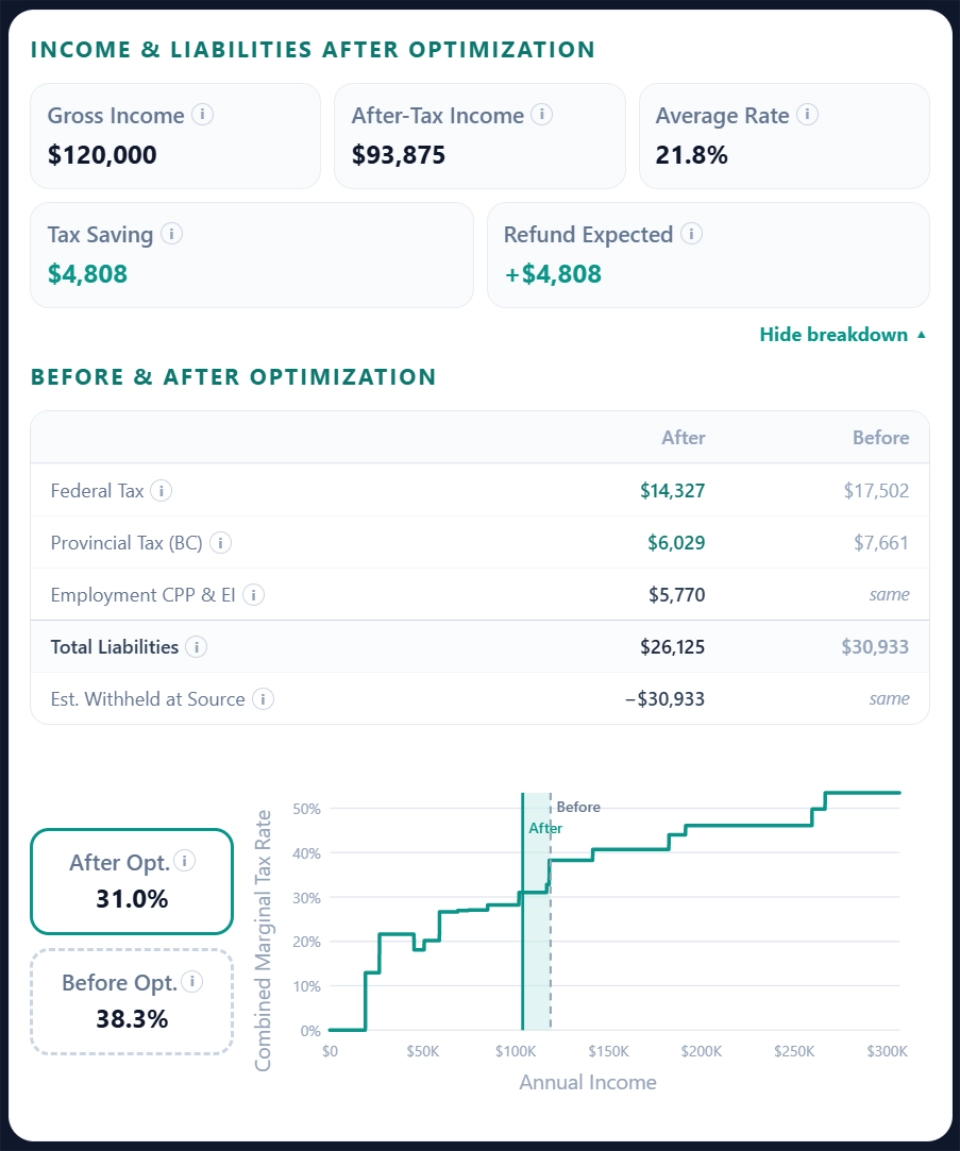
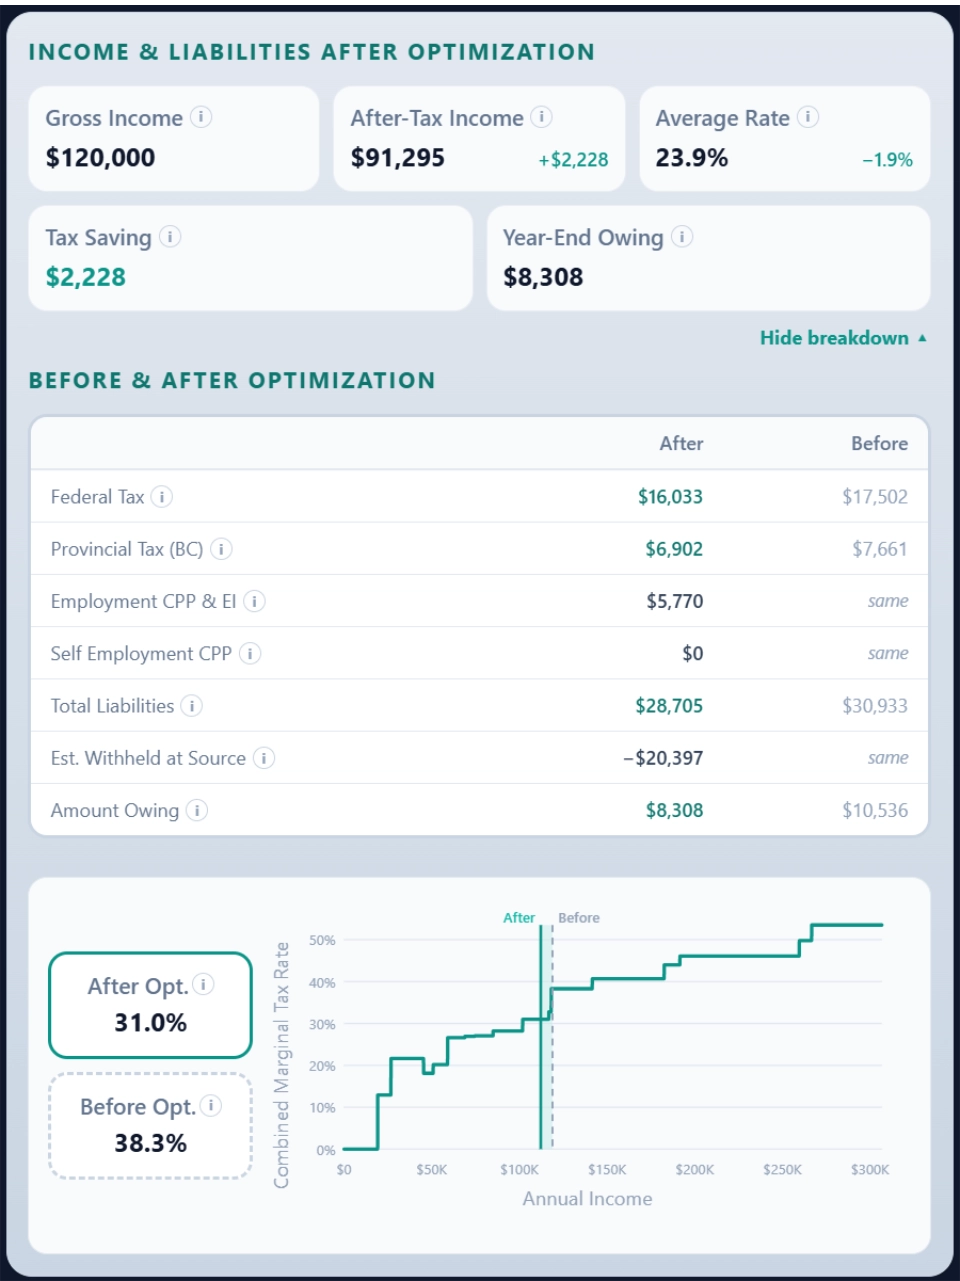
data viz expanded

diff --git a/UX-UI-Projects/BracketWise.html b/UX-UI-Projects/BracketWise.html
@@ -3,7 +3,7 @@
 <head>
     <meta charset="UTF-8">
     <meta name="viewport" content="width=device-width, initial-scale=1.0">
-    <title>NahlaNia Design-SaaS Product Design-Dealicious</title>
+    <title>NahlaNia Design-Fintech Product Design & Strategy-BracketWise</title>
     <link rel="icon" href="../Assets/Images/NahlaNia-logo-sign.svg">
 
     <link rel="stylesheet" href="../dist/css/main.css">
@@ -193,10 +193,10 @@
                     <div>
                         <img src="../Assets/Icons/Icon-HatsWorn.svg" alt=""><span class="title">Hats Worn</span>
                         <ul class="list-style">
-                            <li>Product Management: Problem framing, scope sequencing, MVP prioritization, feature tradeoff decisions</li>
-                            <li>UX Research: Domain research, pain point mapping, competitive analysis, algorithmic verification against CRA rules</li>
-                            <li>System Architecture: Tax engine design, 5-pass optimization logic, data flow, React implementation</li>
-                            <li>UI/UX Design: Design system tokens, information architecture, data visualization, copywriting</li>
+                            <li><span class="bold-text">Product Management:</span> Problem framing, scope sequencing, MVP prioritization, feature tradeoff decisions</li>
+                            <li><span class="bold-text">UX Research:</span> Domain research, pain point mapping, competitive analysis, algorithmic verification against CRA rules</li>
+                            <li><span class="bold-text">System Architecture:</span> Tax engine design, 5-pass optimization logic, data flow, React implementation</li>
+                            <li><span class="bold-text">UI/UX Design:</span> Design system tokens, information architecture, data visualization, copywriting</li>
                         </ul>
                     </div>
                 </li>
@@ -215,7 +215,7 @@
                 <li class="col-m-6">
                     <div>
                         <img src="../Assets/Icons/Icon-Team.svg" alt=""><span class="title">Team</span>
-                        <p>Solo Work</p>
+                        <p>Sole Designer + Researcher</p>
                     </div>
                 </li>
                 <li class="col-m-6">
@@ -228,7 +228,7 @@
             <div class="spacer-2rem"></div>
         </section>
         <section id="ai-workflow" class="max-width">
-            <h2>How AI Powered This Build</h2>
+            <h2>How Design+AI Powered This Build</h2>
             <div class="two-column">
                 <p>Instead of using AI as a shortcut, I built a system centered on cross-model validation and primary-source grounding. This allowed me to compress research and development cycles without sacrificing the precision required for financial software.</p>
 
@@ -356,7 +356,7 @@
                     </div>
                 </div>
                 <div class="spacer-2rem"></div>
-                <div>
+                <div >
                     <h3>Visualizing the Cash Cascade</h3>
                     <div class="grid gap1">
                         <p  class="col-m-12">
@@ -373,24 +373,26 @@
                 </div>
                 <div class="spacer-2rem"></div>
                 <div>
-                    <h3>Data Visualization & Progressive Disclosure</h3>
-                    <div class="grid  gap1">
-                        <div class="col-m-6">
-                            <p class="col-m-12">
-                                <span class="bold-text">The Problem:</span> <br> Displaying comprehensive tax data is a balancing act. Dumping a massive spreadsheet of calculations onto the screen causes cognitive overload for the average user, but hiding the math entirely frustrates power users who need to verify where their money is going.
-                            </p>
-                            <p class="col-m-6">
-                                <span class="bold-text">The Solution:</span><br> I structured the results dashboard using progressive disclosure to serve both user types. The default view surfaces only high-impact takeaways. For power users requiring deeper transparency, a "See breakdown" toggle reveals a granular, line-by-line comparison of before and after optimization. <br>The graph acts as a <span class="bold-text">visual reward</span> where the UI turns an abstract deduction into a tangible win. This behavioral design leverages loss aversion, visually encouraging the user to follow through with their savings strategy so they don't leave that shielded money on the table.
-                            </p>
-                        </div>
-
-                        <div class="figure col-m-6">
+                    <h3>Data Viz & Progressive Disclosure</h3>
+                    <div class="flow-content">
+                        <div class="figure img-float">
                             <img class="zoomable" src="../Assets/Images/BracketWise/results-2nd-iteration.webp" alt="Cash Cascade">
                             <span class="caption">Data Visualization</span>
                         </div>
+                        <p>
+                            <span class="bold-text">The Problem:</span> <br> Displaying comprehensive tax data is a balancing act. Dumping a massive spreadsheet of calculations causes cognitive overload for the average user, but hiding the math entirely frustrates power users who need to verify where their money is going.
+                        </p>
+                        <p>
+                            <span class="bold-text"></span><br> Instead of defaulting to a single chart type, I matched each visualization format to the specific job it needed to perform, using progressive disclosure to serve both user types effectively.
+                        </p>
+                        <ul class="list-style">
+                            <li><span class="bold-text">Stat Pills (Headline Figures):</span> Single scalar facts like Gross Income and Tax Savings are presented as text for immediate reading with zero decoding overhead. I applied a consistent visual language to the deltas, using an accent color to flag "good news", so users can instantly register the impact of their optimization at a glance. Gross income deliberately carries no delta, as it remains mathematically unaffected by the optimization.</li>
+                            <li><span class="bold-text">The Data Table (Auditing the Math):</span> Once users see their headline result, their next instinct is to verify it line by line. Since this is a precision lookup task rather than a trend analysis, a traditional table is the only format that works. It sits behind a "See breakdown" toggle, keeping the default view clean while providing power users with the granular transparency they need.</li>
+                            <li><span class="bold-text"> The Step Graph (Visualizing the "Aha" Moment):</span>The core insight is showing users where they sit on the tax curve. Since Canadian tax brackets jump discretely rather than rising smoothly, I used a step function to honestly reflect how the system behaves. A shaded "Income Shielded" zone turns the optimization into a tangible, spatial win.</li>
+                        </ul>
                     </div>
                 </div>
-                <div class="spacer-2rem"></div>
+                <div class="spacer-3rem"></div>
                 <div>
                     <h3>Dynamic Alerts & Contextual Education</h3>
                     <div class="grid  gap1">
@@ -515,7 +517,7 @@
                 <div>
                     <h3>Validating the UX</h3>
                     <div class="grid row-gap0 space-after">
-                        <p class="col-m-12"><span class="bold-text">Data Analytitics:</span><br> Usability testing revealed a few friction points in result comprehension. Users felt overwhelmed by the combined marginal tax graph sitting in the top-level results.<br> In response, by leveraging progressive disclosure, I moved the complex tax graph into a detailed breakdown section—keeping the initial results highly scannable for the average user, while ensuring power users still retain full access to the granular visual data they need.</p>
+                        <p class="col-m-12"><span class="bold-text">Data Analytitics:</span><br> Usability testing revealed a few friction points in result comprehension. Users felt overwhelmed by the combined marginal tax graph sitting in the top-level results.<br> In response, by leveraging progressive disclosure, I moved the complex tax graph into a detailed breakdown section—keeping the initial results highly scannable for the average user, while ensuring power users still retain full access to the granular visual data they need.<br>I also added a lightweight delta indicator to the two pills that actually change post-optimization.</p>
                         <div class="col-m-6 figure">
                             <img class="zoomable" src="../Assets/Images/BracketWise/results-1st-iteration.webp" alt="results first iteration">
                             <span class="caption">Results, First Iteration</span>

diff --git a/dist/css/main.css b/dist/css/main.css
@@ -679,6 +679,20 @@ ol.two-column {
   }
 }
 
+/* Floats an image (or an image's wrapping container, eg. .figure) top-right, letting text wrap around it */
+@media screen and (min-width: 768px) {
+  .img-float {
+    float: right;
+    max-width: 50%;
+    margin: 0 0 1rem 1rem;
+  }
+}
+
+/* Establishes a new block formatting context so a floated child (eg. .img-float) doesn't collapse the container's height */
+.flow-content {
+  display: flow-root;
+}
+
 /* MEDIA =======================*/
 .responsiveIframe {
   width: 100%;

diff --git a/sass/base/_base.scss b/sass/base/_base.scss
@@ -623,3 +623,17 @@ ol.two-column{
 		}
 	}
 }
+
+/* Floats an image (or an image's wrapping container, eg. .figure) top-right, letting text wrap around it */
+.img-float{
+	@media screen and (min-width: v.$sw-m){
+		float: right;
+		max-width: 50%;
+		margin: 0 0 1rem 1rem;
+	}
+}
+
+/* Establishes a new block formatting context so a floated child (eg. .img-float) doesn't collapse the container's height */
+.flow-content{
+	display: flow-root;
+}
